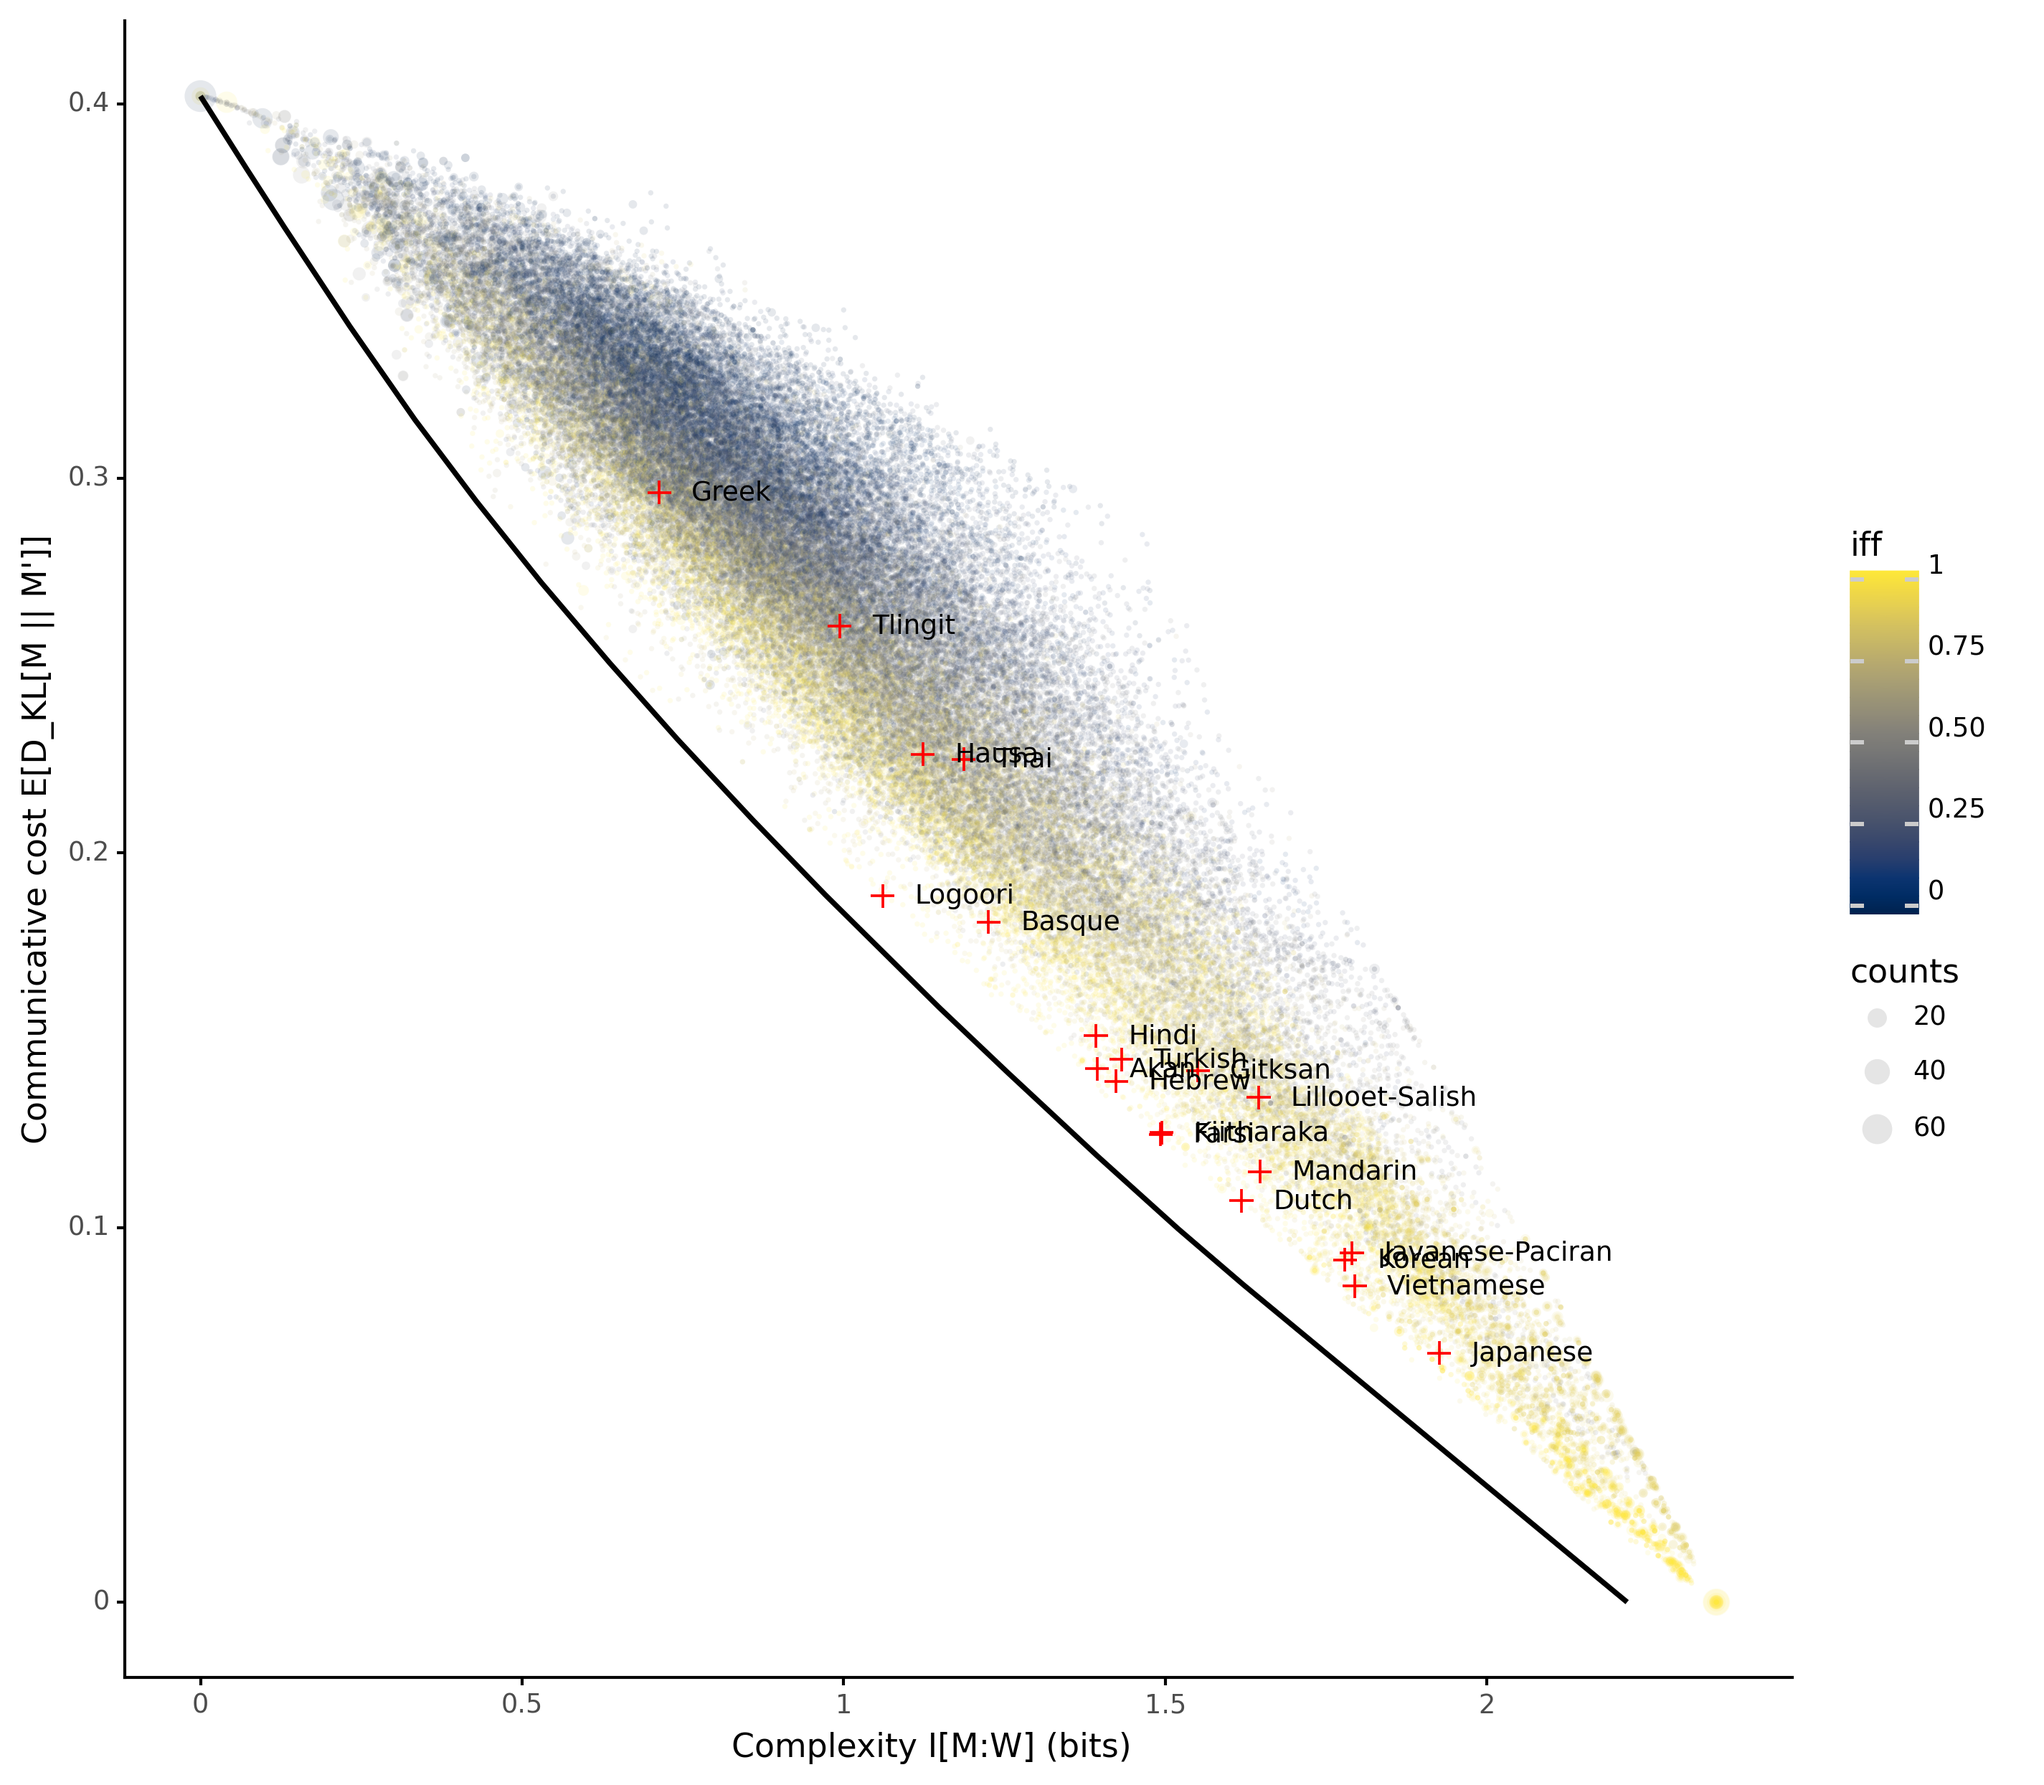
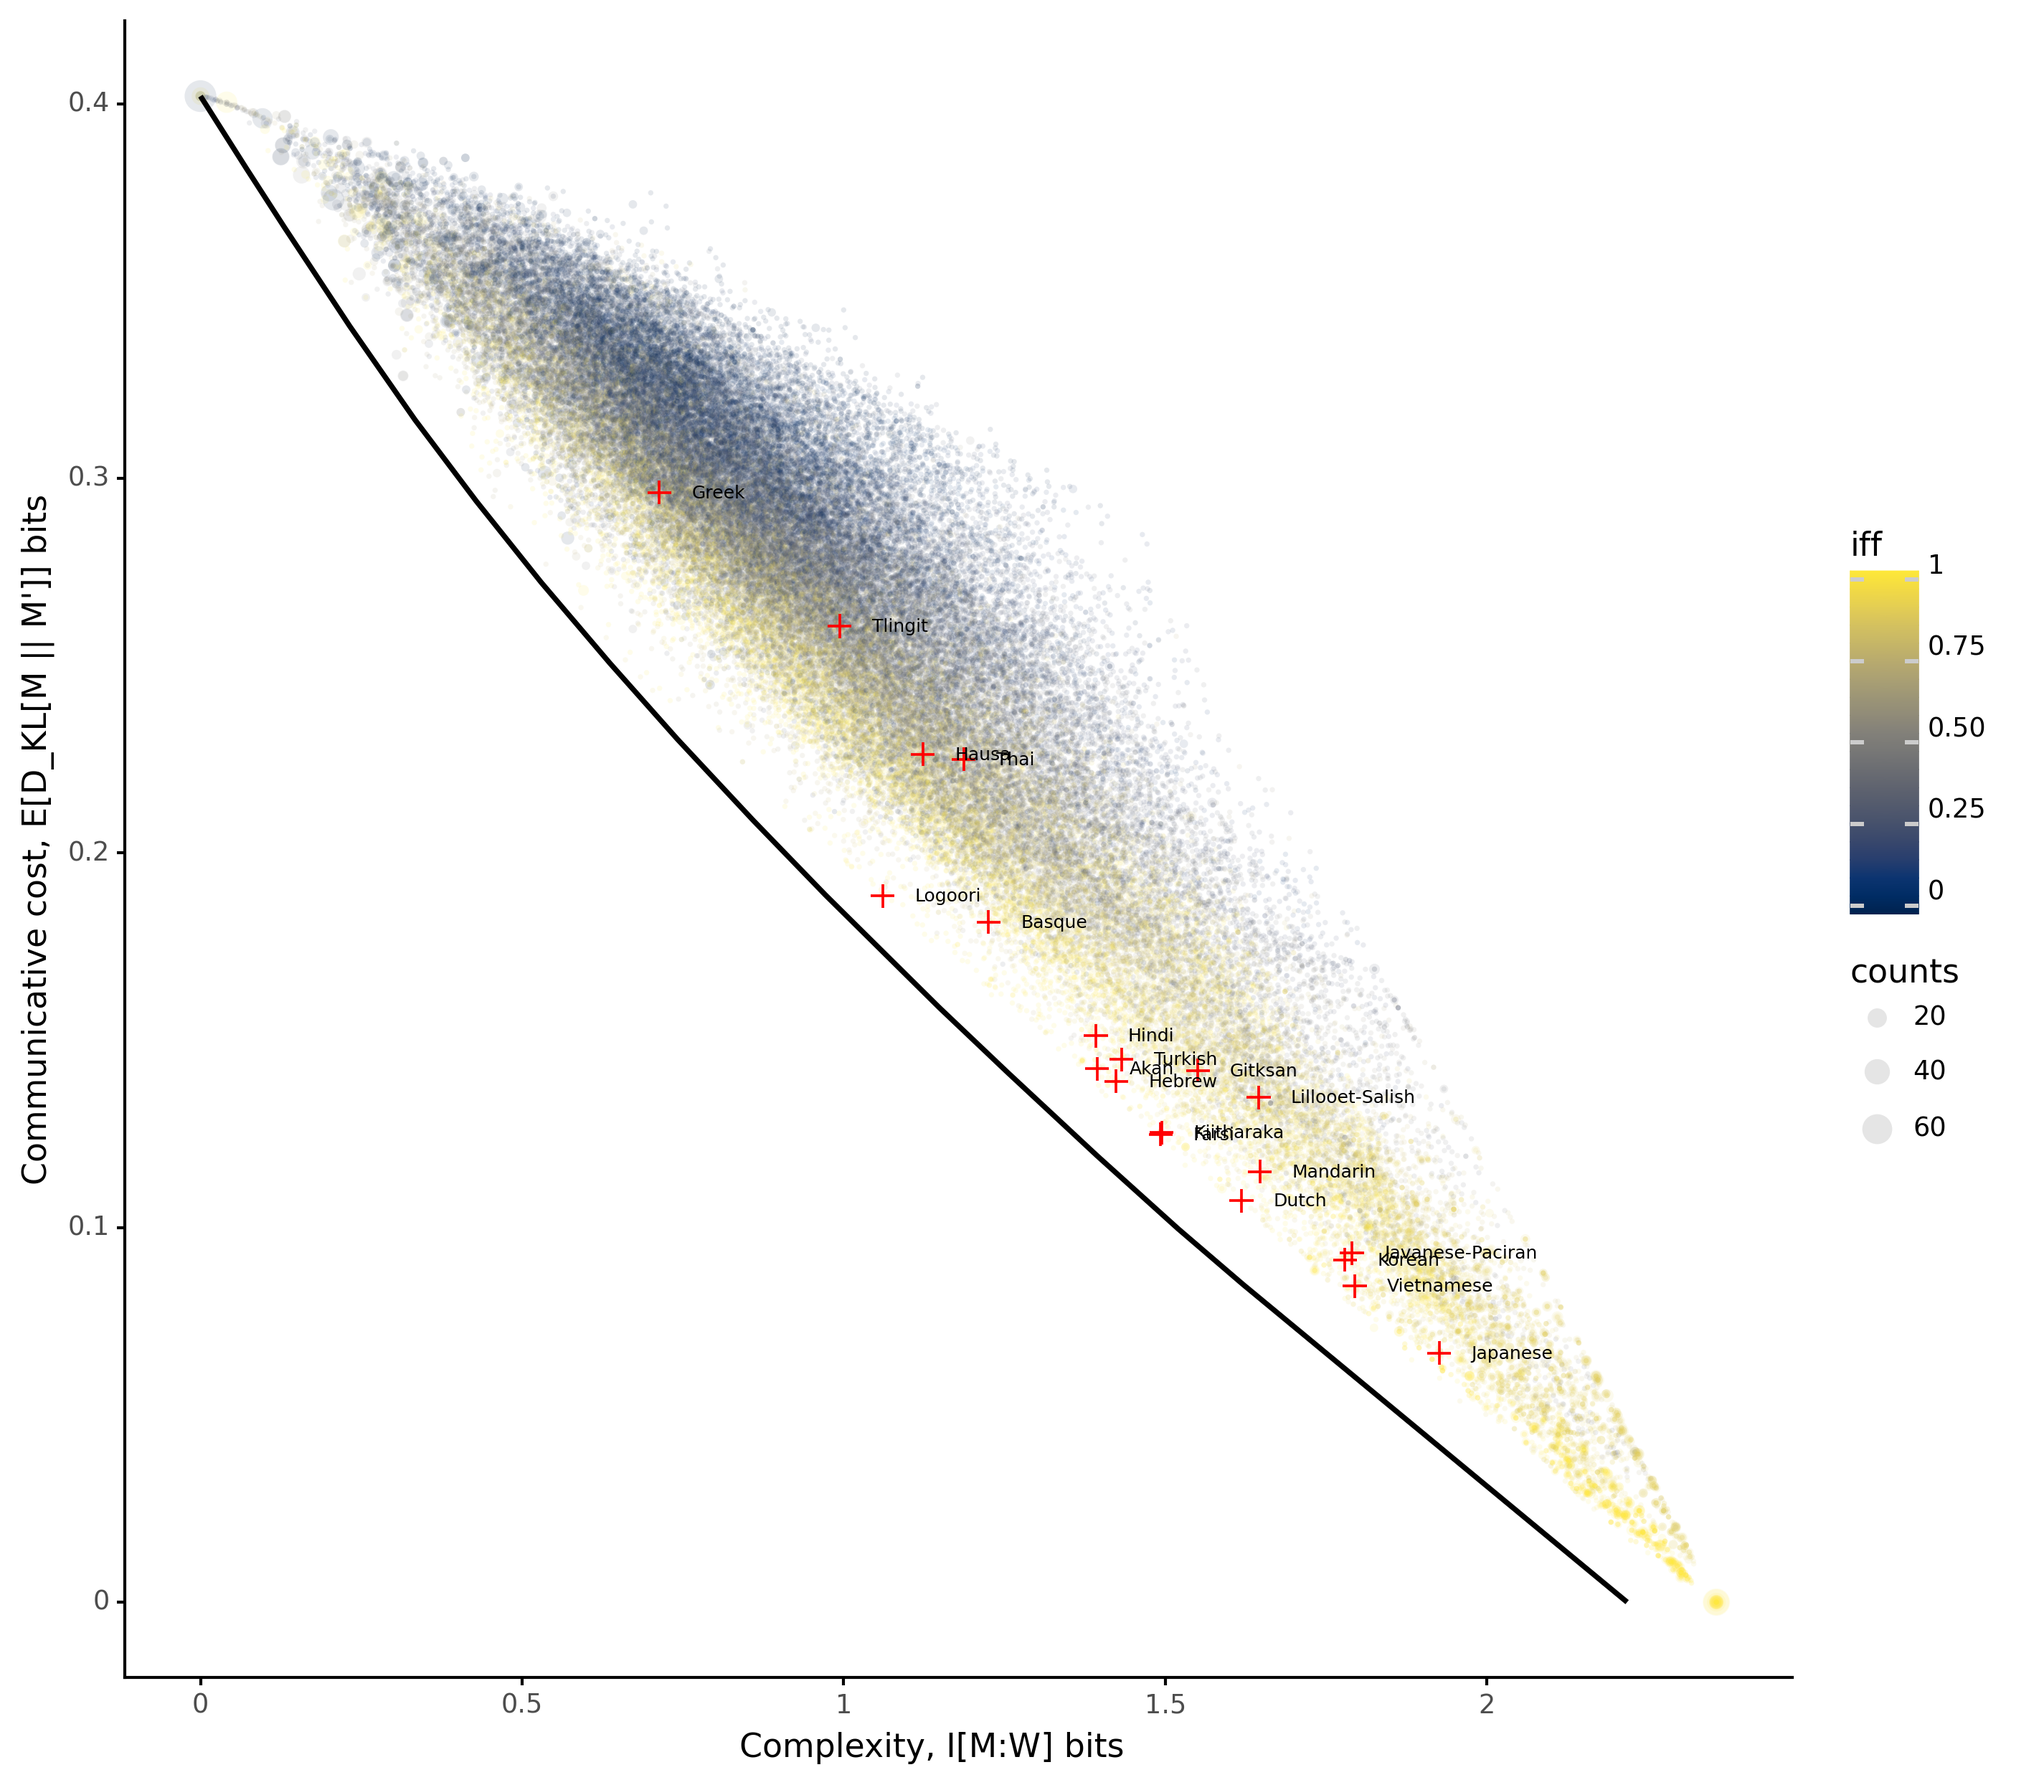
relabel axes

diff --git a/src/analyze_ib.py b/src/analyze_ib.py
@@ -80,26 +80,30 @@ def get_modals_plot(
             alpha=0.1,
             mapping=pn.aes(**kwargs),
         )
-        + pn.geom_point(  # The natural languages
-            natural_data,
-            color="red",
-            shape="+",
-            size=4,
-        )
-        + pn.geom_text(
-            natural_data, 
-            pn.aes(label="name"), 
-            ha="left", 
-            size=9, 
-            nudge_x=0.05,
-            )
         + pn.geom_line(size=1, data=pareto_smoothed)
-        + pn.xlab("Complexity I[M:W] (bits)")
-        + pn.ylab("Communicative cost E[D_KL[M || M']] (bits)")
+        + pn.xlab("Complexity, I[M:W] bits")
+        + pn.ylab("Communicative cost, E[D_KL[M || M']] bits")
         # + pn.ylab("Informativity I[W:U] (bits)")
         + pn.scale_color_cmap("cividis")
         + pn.theme_classic()
     )
+    if natural_data is not None:
+        plot = (
+            plot
+            + pn.geom_point(  # The natural languages
+                natural_data,
+                color="red",
+                shape="+",
+                size=4,
+            )
+            + pn.geom_text(
+                natural_data,
+                pn.aes(label="name"),
+                ha="left",
+                size=6, # orig 9
+                nudge_x=0.05, 
+            )
+        )    
     return plot
 
 

diff --git a/src/analyze.py b/src/analyze.py
@@ -85,8 +85,8 @@ def get_modals_plot(
                 natural_data,
                 pn.aes(label="name"),
                 ha="left",
-                size=6,
-                nudge_x=1,  # orig 9
+                size=6, # orig 9
+                nudge_x=1, 
             )
         )
     return plot
